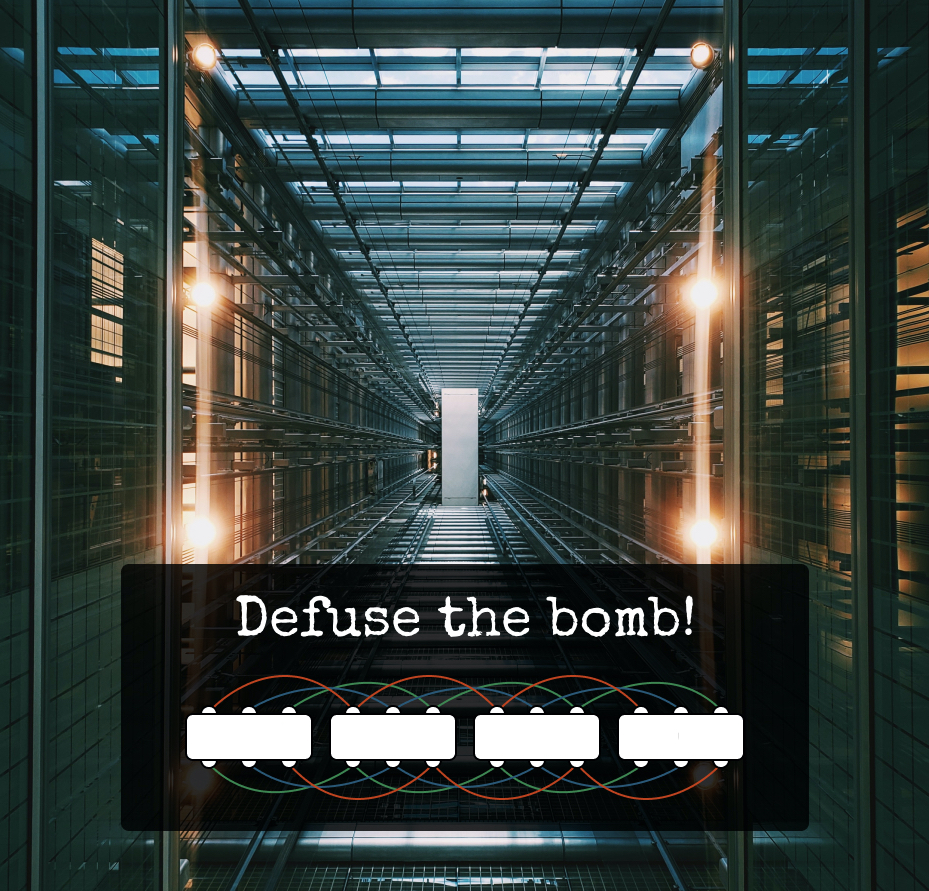
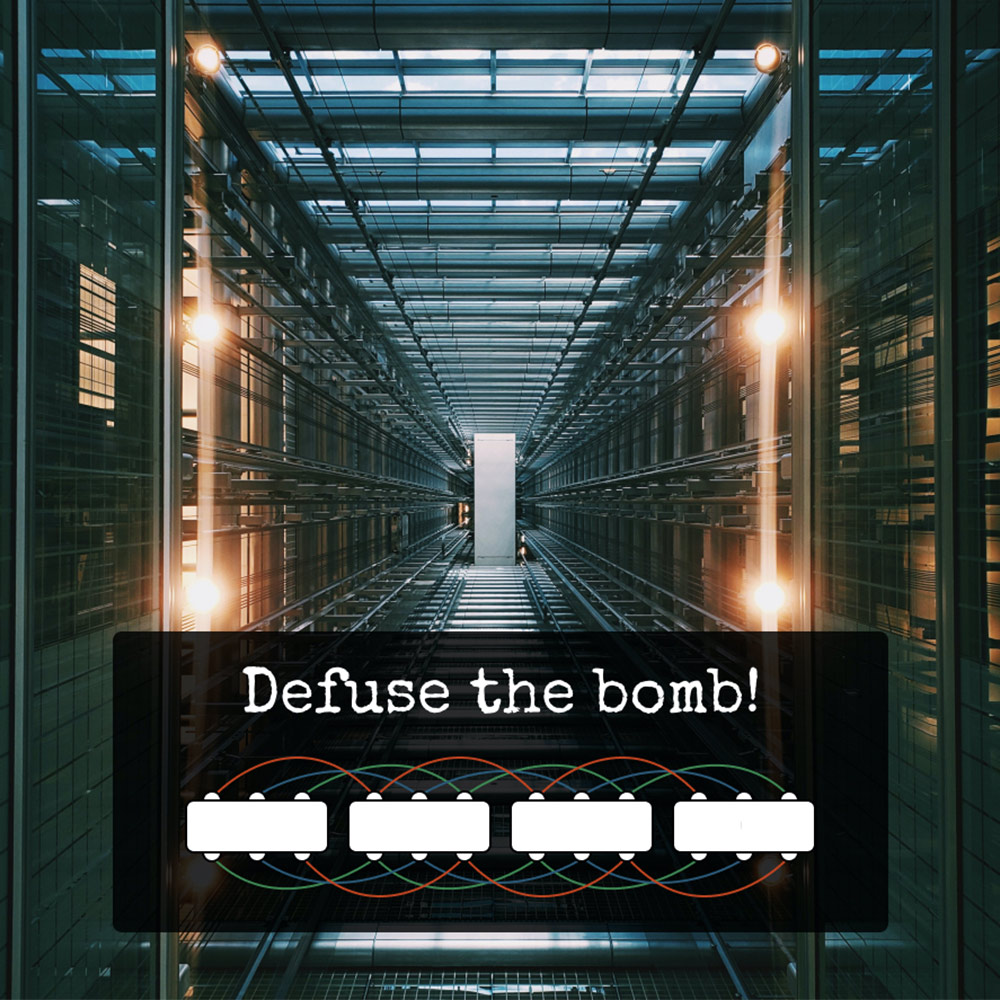
add bomb defusal input

diff --git a/src/components/panels/BombRoom.js b/src/components/panels/BombRoom.js
@@ -1,58 +1,81 @@
 import React, { useContext, useState, useEffect } from "react";
-import InteractiveImage from "../shared/interactive-image";
+import { Container as InteractiveImageContainer } from "../shared/interactive-image";
 import { Link, useHistory } from "react-router-dom";
 import { StateContext, ActionTypes } from "../util/useApplicationState";
 import styled from "styled-components";
 
-const InputContainer = styled.div`
-  display: flex;
-  input {
-    margin-right: 24px;
-  }
+const Container = styled(InteractiveImageContainer)`
+  background-image: url("/office/bombdefusalUI.jpg");
+`;
 
-  p {
-    margin-right: 12px;
+const InputWrapper = styled.div`
+  position: absolute;
+  left: 18.5%;
+  right: 18.5%;
+  top: 80%;
+  bottom: 14.5%;
+
+  display: grid;
+  grid-template: 1fr / repeat(4, 1fr);
+  grid-gap: 3.5%;
+
+  & > input {
+    width: 100%;
+    background-color: transparent;
+    border: none;
   }
 `;
 
-
-
 export default function BombRoom() {
-  const history = useHistory();
-  const { state, dispatch } = useContext(StateContext);
-  const [dataInput, setDataInput] = useState("");
+  const [dataInput, _setDataInput] = useState(["", "", "", ""]);
+
+  const setData = (index, value) => {
+    _setDataInput((prevVal) => {
+      const newArr = [...prevVal];
+      newArr[index] = value;
+      return newArr;
+    });
+  };
 
   useEffect(() => {
-    if (dataInput == "1935") {
-      setTimeout(() => {
-        dispatch({ type: "SET_STATE", payload: "LOCKSCREEN" });
-        history.push("/outside_office");
-      }, 150);
+    const fullCode = dataInput
+      .reduce((acc, curr) => acc + curr, "")
+      .toLowerCase();
+
+    if (fullCode === "stayhomefurevr") {
+      alert("success");
     }
   }, [dataInput]);
 
-
-
   return (
-    <InteractiveImage
-        src="./office/bombdefusalUI.jpg"
-    >
-        {/* <InputContainer>
-        <p>Answer:</p>
+    <Container>
+      <InputWrapper>
         <input
-            value={dataInput}
-            onChange={(e) => {
-            setDataInput(e.target.value);
-            }}
+          type="text"
+          value={dataInput[0]}
+          onChange={(e) => setData(0, e.target.value)}
         />
-        </InputContainer> */}
-    </InteractiveImage>
-    
+        <input
+          type="text"
+          value={dataInput[1]}
+          onChange={(e) => setData(1, e.target.value)}
+        />
+        <input
+          type="text"
+          value={dataInput[2]}
+          onChange={(e) => setData(2, e.target.value)}
+        />
+        <input
+          type="text"
+          value={dataInput[3]}
+          onChange={(e) => setData(3, e.target.value)}
+        />
+      </InputWrapper>
+    </Container>
   );
 }
 
 export function InputImage() {
-    // return (
-
-    // );
+  // return (
+  // );
 }

diff --git a/src/components/shared/interactive-image.js b/src/components/shared/interactive-image.js
@@ -13,7 +13,7 @@ const fadeIn = keyframes`
   }
 `;
 
-const Container = styled.div`
+export const Container = styled.div`
   width: 50vw;
   height: 50vw;
   background-color: transparent;
